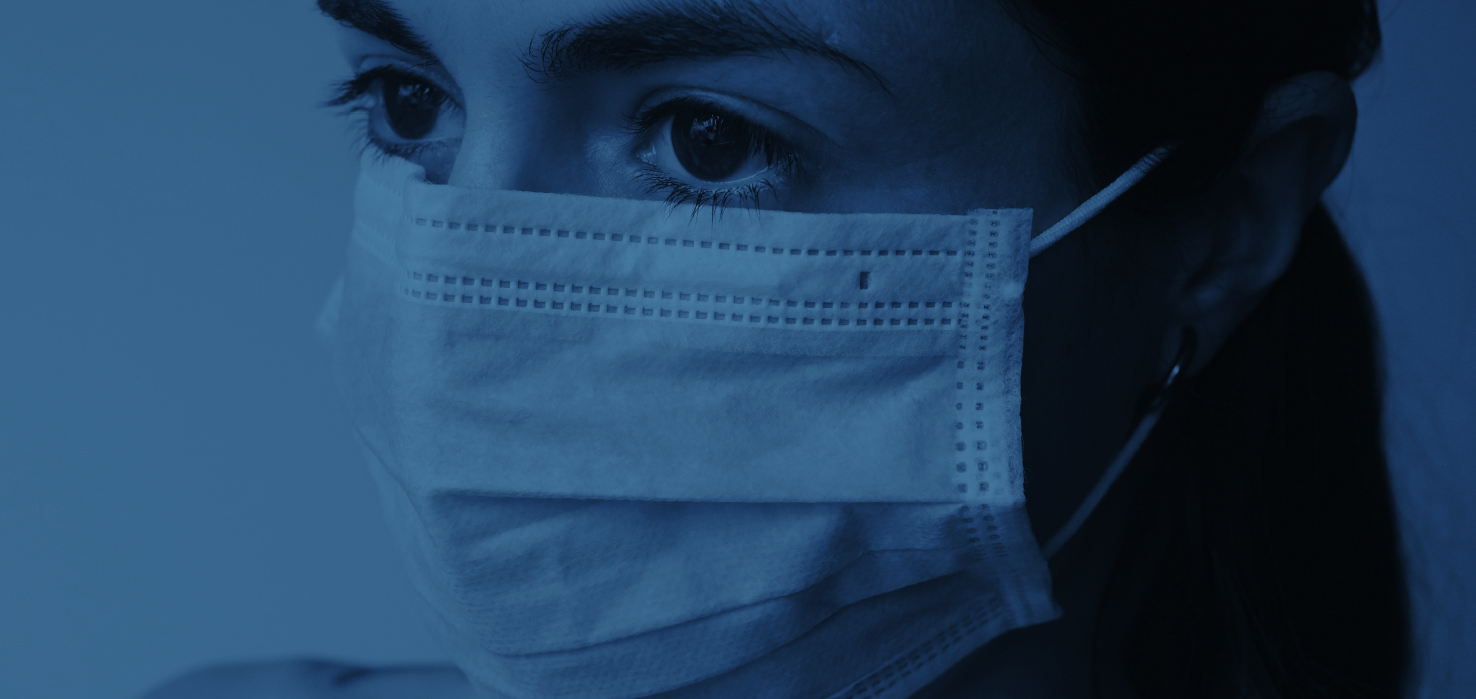
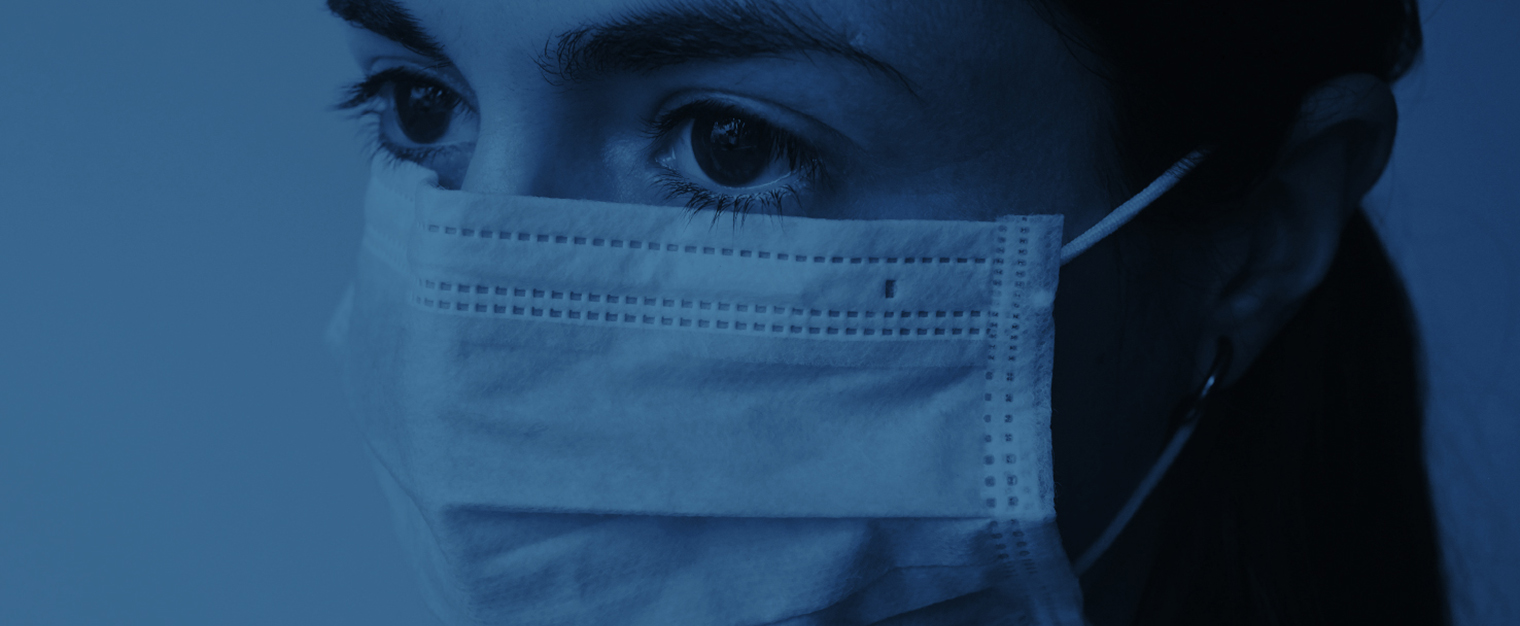
Reemplazo de imágenes pesadas, rediseño de area características mobile

diff --git a/index.html b/index.html
@@ -498,16 +498,12 @@
 		</section>
 		<section class="only-cel area-caracteristicas pt-70 pb-70">
 			<div class="container">
-				<div class="text-wrap" style="text-align: left; float: left;">
-					<div class="caracteristicas" style="margin-bottom: 12px;">
+				<div class="text-wrap" style="top: 0">
+					<div class="caracteristicas">
 						<div class="titulo">Canales de Atención</div>
 						<div class="subtitulo">Video-consulta</div>
 						<div class="subtitulo">Chat</div>
 						<div class="subtitulo">Llamada Telefónica</div>
-					</div>
-					<div class="caracteristicas" style="flex-grow: 1;">
-						<div class="titulo">Suscripción Mensual</div>
-						<div class="subtitulo">Consultas Ilimitadas</div>
 					</div>
 					<div class="caracteristicas">
 						<div class="titulo">Portal de Salud</div>
@@ -516,16 +512,20 @@
 						<div class="subtitulo">Certificado de Salud</div>
 						<div class="subtitulo">Historial Médico</div>
 					</div>
+					<div class="caracteristicas">
+						<div class="titulo">Suscripción Mensual</div>
+						<div class="subtitulo">Consultas Ilimitadas</div>
+					</div>
 				</div>
-				<div class="text-wrap" style="text-align: right; float: right;">
-					<div class="caracteristicas" style="flex-grow: 1;">
+				<div class="text-wrap" style="bottom: 0;">
+					<div class="caracteristicas">
 						<div class="titulo">Modelo de Servicio</div>
 						<div class="subtitulo">Agenda Online</div>
 						<div class="subtitulo">Atiéndete desde 30 min.</div>
 						<div class="subtitulo">365 Días del Año</div>
 						<div class="subtitulo">Desde donde Estés</div>
 					</div>
-					<div class="caracteristicas" style="margin-bottom: 25px;">
+					<div class="caracteristicas">
 						<div class="titulo">Nuestro Equipo</div>
 						<div class="subtitulo">Certificados Super Salud</div>
 						<div class="subtitulo">Universidades Tradicionales</div>
@@ -535,7 +535,6 @@
 						<div class="titulo">Modelo de Negocio</div>
 						<div class="subtitulo">Atenciones Ilimitadas</div>
 						<div class="subtitulo">Suscripción de Precio Fijo</div>
-						<div class="linea-blanca only-pc" style="height: 68px;"></div>
 					</div>
 				</div>
 			</div>

diff --git a/assets/css/responsive.css b/assets/css/responsive.css
@@ -179,36 +179,40 @@
   }
   .area-caracteristicas {
     height: calc(100vh - 71px);
-    min-height: 651px;
+    min-height: 430px;
     background-image: url(../../assets/img/home-one/fondo-caracteristicas-2.png);
     background-position: 50% 50%;
+    background-size: 320%;
+    padding: 0;
   }
   .area-caracteristicas .container {
-    display: flex;
     max-width: 100%;
     height: 100%;
+    position: relative;
+    padding: 0;
   }
   .area-caracteristicas .text-wrap {
     float: unset !important;
-    width: 50%;
+    position: absolute;
+    width: 100%;
     padding: 0 5px;
-    height: 100%;
+    display: flex;
+    flex-direction: row;
+    justify-content: space-between;
   }
   .area-caracteristicas .container .titulo {
-    font-size: 21px;
+    font-size: 18px;
     margin: 0;
     line-height: 1.2;
     margin-bottom: 4px;
   }
   .area-caracteristicas .container .subtitulo {
-    font-size: 12px;
+    font-size: 9px;
     margin: 0;
   }
-  .area-caracteristicas .text-wrap .caracteristicas {
-    margin: 0;
-  }
-  .area-caracteristicas .text-wrap .caracteristicas .linea-blanca {
-    height: unset !important;
+  .area-caracteristicas .container .caracteristicas {
+    text-align: center;
+    max-width: 33.3333%;
   }
   .area-contador {
     margin-top: 0;
